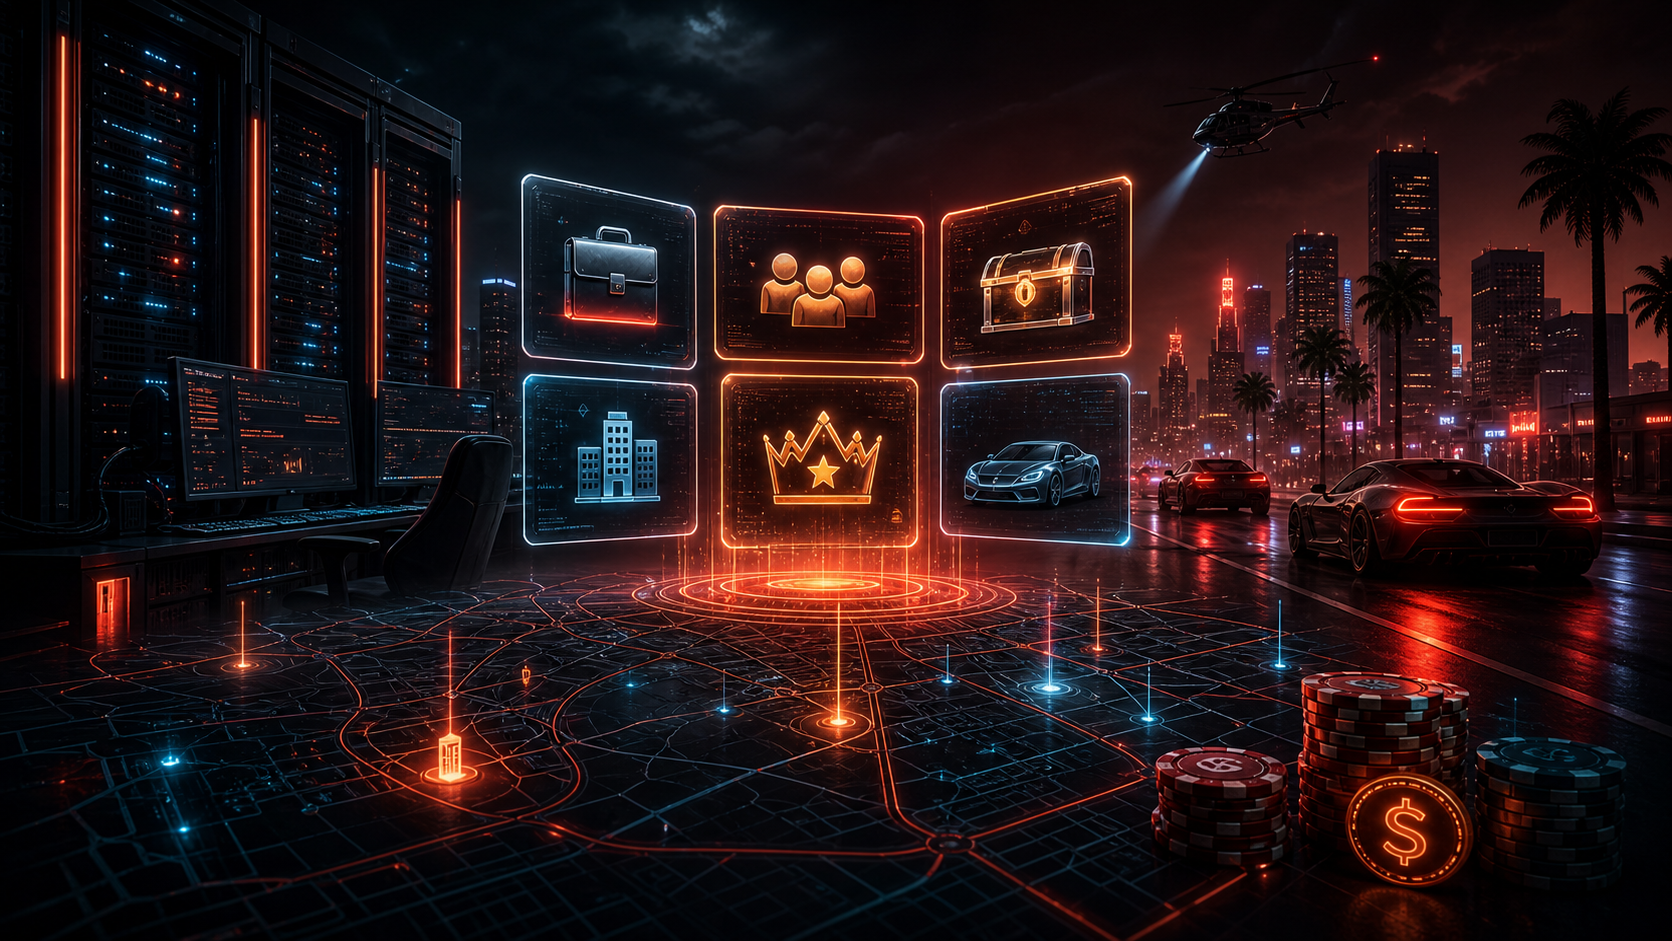
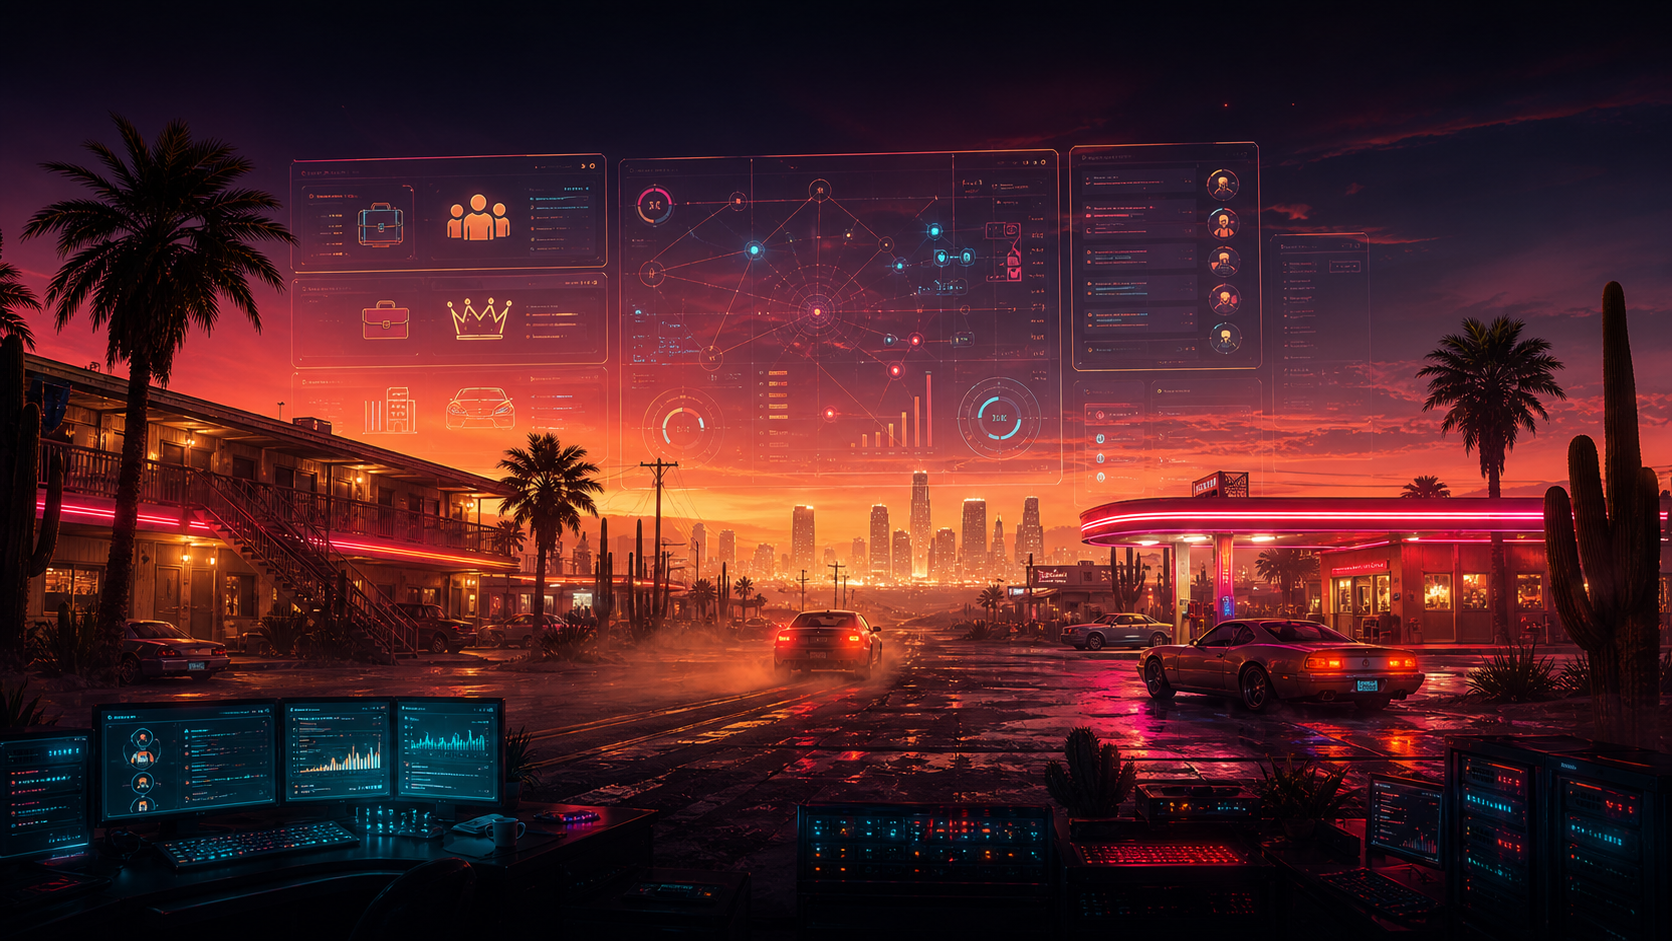
Add Arizona RP visual style

diff --git a/styles/globals.css b/styles/globals.css
@@ -4217,3 +4217,209 @@ h3,
     min-height: auto;
   }
 }
+
+/* Arizona V inspired GTA RP mood */
+:root {
+  --az-sand: #ffb35b;
+  --az-orange: #ff6a2a;
+  --az-pink: #ff3fb4;
+  --az-cyan: #25e6ff;
+  --az-violet: #32123f;
+  --az-night: #070713;
+}
+
+.rp-site {
+  background:
+    linear-gradient(180deg, rgba(5, 6, 15, 0.76), rgba(8, 5, 12, 0.95) 36%, rgba(8, 5, 10, 0.98)),
+    radial-gradient(circle at 22% 10%, rgba(255, 106, 42, 0.22), transparent 34rem),
+    radial-gradient(circle at 84% 18%, rgba(255, 63, 180, 0.16), transparent 30rem),
+    url("/rp-economy-ops.png") center top / cover fixed,
+    var(--az-night);
+}
+
+.hero__image {
+  object-position: center center;
+  filter: saturate(1.18) contrast(1.06);
+}
+
+.hero__shade {
+  background:
+    linear-gradient(90deg, rgba(5, 6, 15, 0.98) 0%, rgba(5, 6, 15, 0.82) 33%, rgba(17, 8, 20, 0.33) 67%, rgba(5, 6, 15, 0.82) 100%),
+    radial-gradient(circle at 78% 35%, rgba(255, 63, 180, 0.22), transparent 35%),
+    radial-gradient(circle at 34% 55%, rgba(255, 106, 42, 0.25), transparent 34%),
+    radial-gradient(circle at 68% 75%, rgba(37, 230, 255, 0.12), transparent 30%);
+}
+
+.hero::after,
+.page-hero::after,
+.visual-story::after {
+  content: "";
+  position: absolute;
+  inset: 0;
+  opacity: 0.09;
+  pointer-events: none;
+  background-image:
+    linear-gradient(115deg, transparent 0 23%, rgba(255, 179, 91, 0.7) 23% 23.35%, transparent 23.35% 72%, rgba(255, 63, 180, 0.65) 72% 72.35%, transparent 72.35%),
+    linear-gradient(rgba(255, 255, 255, 0.26) 1px, transparent 1px);
+  background-size: 100% 100%, 100% 5px;
+}
+
+.hero__content {
+  z-index: 2;
+}
+
+.kicker,
+.section-kicker {
+  border-color: rgba(255, 179, 91, 0.26);
+  background:
+    linear-gradient(135deg, rgba(255, 106, 42, 0.14), rgba(255, 63, 180, 0.09)),
+    rgba(255, 255, 255, 0.045);
+  color: #ffe0c3;
+}
+
+.kicker svg,
+.section-kicker svg {
+  color: var(--az-cyan);
+}
+
+.text-cyan {
+  color: var(--az-cyan);
+  text-shadow: 0 0 26px rgba(37, 230, 255, 0.24);
+}
+
+.text-pink {
+  color: var(--az-pink);
+  text-shadow: 0 0 30px rgba(255, 63, 180, 0.25);
+}
+
+.text-lime {
+  color: var(--az-sand);
+  text-shadow: 0 0 26px rgba(255, 179, 91, 0.22);
+}
+
+.btn--primary,
+.lead-form button,
+.site-header .topbar__cta,
+.site-footer__cta {
+  background: linear-gradient(135deg, var(--az-orange), var(--az-pink)) !important;
+  box-shadow: 0 18px 54px rgba(255, 63, 180, 0.24), 0 10px 34px rgba(255, 106, 42, 0.16);
+}
+
+.btn--ghost {
+  border-color: rgba(37, 230, 255, 0.26);
+  background: rgba(37, 230, 255, 0.065);
+}
+
+.offer-strip {
+  border-color: rgba(255, 179, 91, 0.2);
+  background:
+    linear-gradient(90deg, rgba(255, 106, 42, 0.12), rgba(255, 63, 180, 0.08), rgba(37, 230, 255, 0.08)),
+    rgba(0, 0, 0, 0.26);
+}
+
+.stat,
+.feature-card,
+.rule-card,
+.package-card,
+.explore-card,
+.testimonial-card,
+.portfolio-card,
+.problem-card,
+.timeline-card,
+.seo-panel,
+.lead-form,
+.contact-links a,
+.max-card,
+.cockpit,
+.page-navigator__card,
+.insight-card,
+.faq-card,
+.owner-questions article {
+  border-color: rgba(255, 179, 91, 0.12);
+  background:
+    linear-gradient(145deg, rgba(255, 106, 42, 0.075), rgba(255, 63, 180, 0.045) 42%, rgba(37, 230, 255, 0.035)),
+    rgba(8, 10, 18, 0.76);
+  box-shadow: inset 0 1px 0 rgba(255, 255, 255, 0.055), 0 20px 64px rgba(0, 0, 0, 0.28);
+}
+
+.feature-card svg,
+.rule-card svg,
+.package-card svg,
+.problem-card svg,
+.timeline-card svg,
+.contact-links svg {
+  color: var(--az-sand);
+  filter: drop-shadow(0 0 16px rgba(255, 106, 42, 0.22));
+}
+
+.page-hero {
+  background:
+    linear-gradient(90deg, rgba(6, 7, 16, 0.96), rgba(12, 6, 17, 0.82) 54%, rgba(6, 7, 16, 0.92)),
+    radial-gradient(circle at 74% 22%, rgba(255, 63, 180, 0.16), transparent 30rem),
+    url("/rp-economy-ops.png") center center / cover;
+}
+
+.page-hero__panel {
+  border-color: rgba(255, 179, 91, 0.2);
+  background:
+    linear-gradient(145deg, rgba(255, 106, 42, 0.16), rgba(255, 63, 180, 0.08)),
+    rgba(7, 8, 15, 0.82);
+}
+
+.page-hero__panel b {
+  color: var(--az-sand);
+}
+
+.page-hero__panel i {
+  border-color: rgba(37, 230, 255, 0.22);
+  box-shadow: 0 0 55px rgba(255, 63, 180, 0.18);
+}
+
+.section--dark,
+.page-navigator,
+.site-footer {
+  background:
+    linear-gradient(180deg, rgba(6, 7, 16, 0.94), rgba(8, 5, 12, 0.98)),
+    radial-gradient(circle at 12% 10%, rgba(255, 106, 42, 0.12), transparent 24rem),
+    radial-gradient(circle at 88% 18%, rgba(255, 63, 180, 0.1), transparent 24rem);
+}
+
+.visual-story {
+  background:
+    linear-gradient(90deg, rgba(6, 7, 16, 0.9), rgba(10, 6, 16, 0.72)),
+    url("/rp-economy-ops.png") center center / cover;
+}
+
+.visual-story__media {
+  border-color: rgba(255, 179, 91, 0.18);
+  box-shadow: 0 28px 90px rgba(0, 0, 0, 0.42), 0 0 50px rgba(255, 63, 180, 0.12);
+}
+
+.visual-story__points span,
+.site-footer__badges span,
+.stack span,
+.offer-strip span {
+  border-color: rgba(255, 179, 91, 0.14);
+  background: rgba(255, 106, 42, 0.08);
+}
+
+.site-header .nav--pages a:hover,
+.site-footer__links a:hover,
+.site-footer__contact a:hover,
+.page-navigator__card:hover {
+  border-color: rgba(255, 179, 91, 0.34);
+  background: linear-gradient(135deg, rgba(255, 106, 42, 0.16), rgba(255, 63, 180, 0.12));
+}
+
+@media (max-width: 760px) {
+  .rp-site {
+    background:
+      linear-gradient(180deg, rgba(5, 6, 15, 0.88), rgba(8, 5, 12, 0.98)),
+      url("/rp-economy-ops.png") center top / auto 760px no-repeat,
+      var(--az-night);
+  }
+
+  .hero__image {
+    object-position: 58% center;
+  }
+}

diff --git a/pages/index.tsx b/pages/index.tsx
@@ -189,7 +189,7 @@ export default function RpLandingPage() {
 function Hero() {
   return (
     <section id="top" className="hero">
-      <img className="hero__image" src="/hero-rp-city.png" alt="Ночной RP-город с серверной инфраструктурой" />
+      <img className="hero__image" src="/hero-rp-city.png" alt="Пустынная GTA RP трасса с неоновым городом и серверной инфраструктурой" />
       <div className="hero__shade" />
       <div className="hero__grid" />
 
@@ -207,7 +207,7 @@ function Hero() {
             </h1>
             <p>
               Не “сборка скриптов”, а запуск игрового продукта: экономика, фракции, донат-витрина,
-              Discord, сайт, хостинг, правила и roadmap роста комьюнити.
+              Discord, сайт, хостинг, правила и roadmap роста комьюнити в дорогой Arizona/GTA-эстетике.
             </p>
 
             <div className="offer-strip">

diff --git a/components/SiteChrome.tsx b/components/SiteChrome.tsx
@@ -161,7 +161,7 @@ export function PageHero({
         </div>
 
         <div className="page-hero__panel">
-          <b>RP PROJECT MAP</b>
+          <b>ARIZONA RP ROUTE</b>
           <span>идея → экономика → сервер → сайт → запуск</span>
           <i />
         </div>